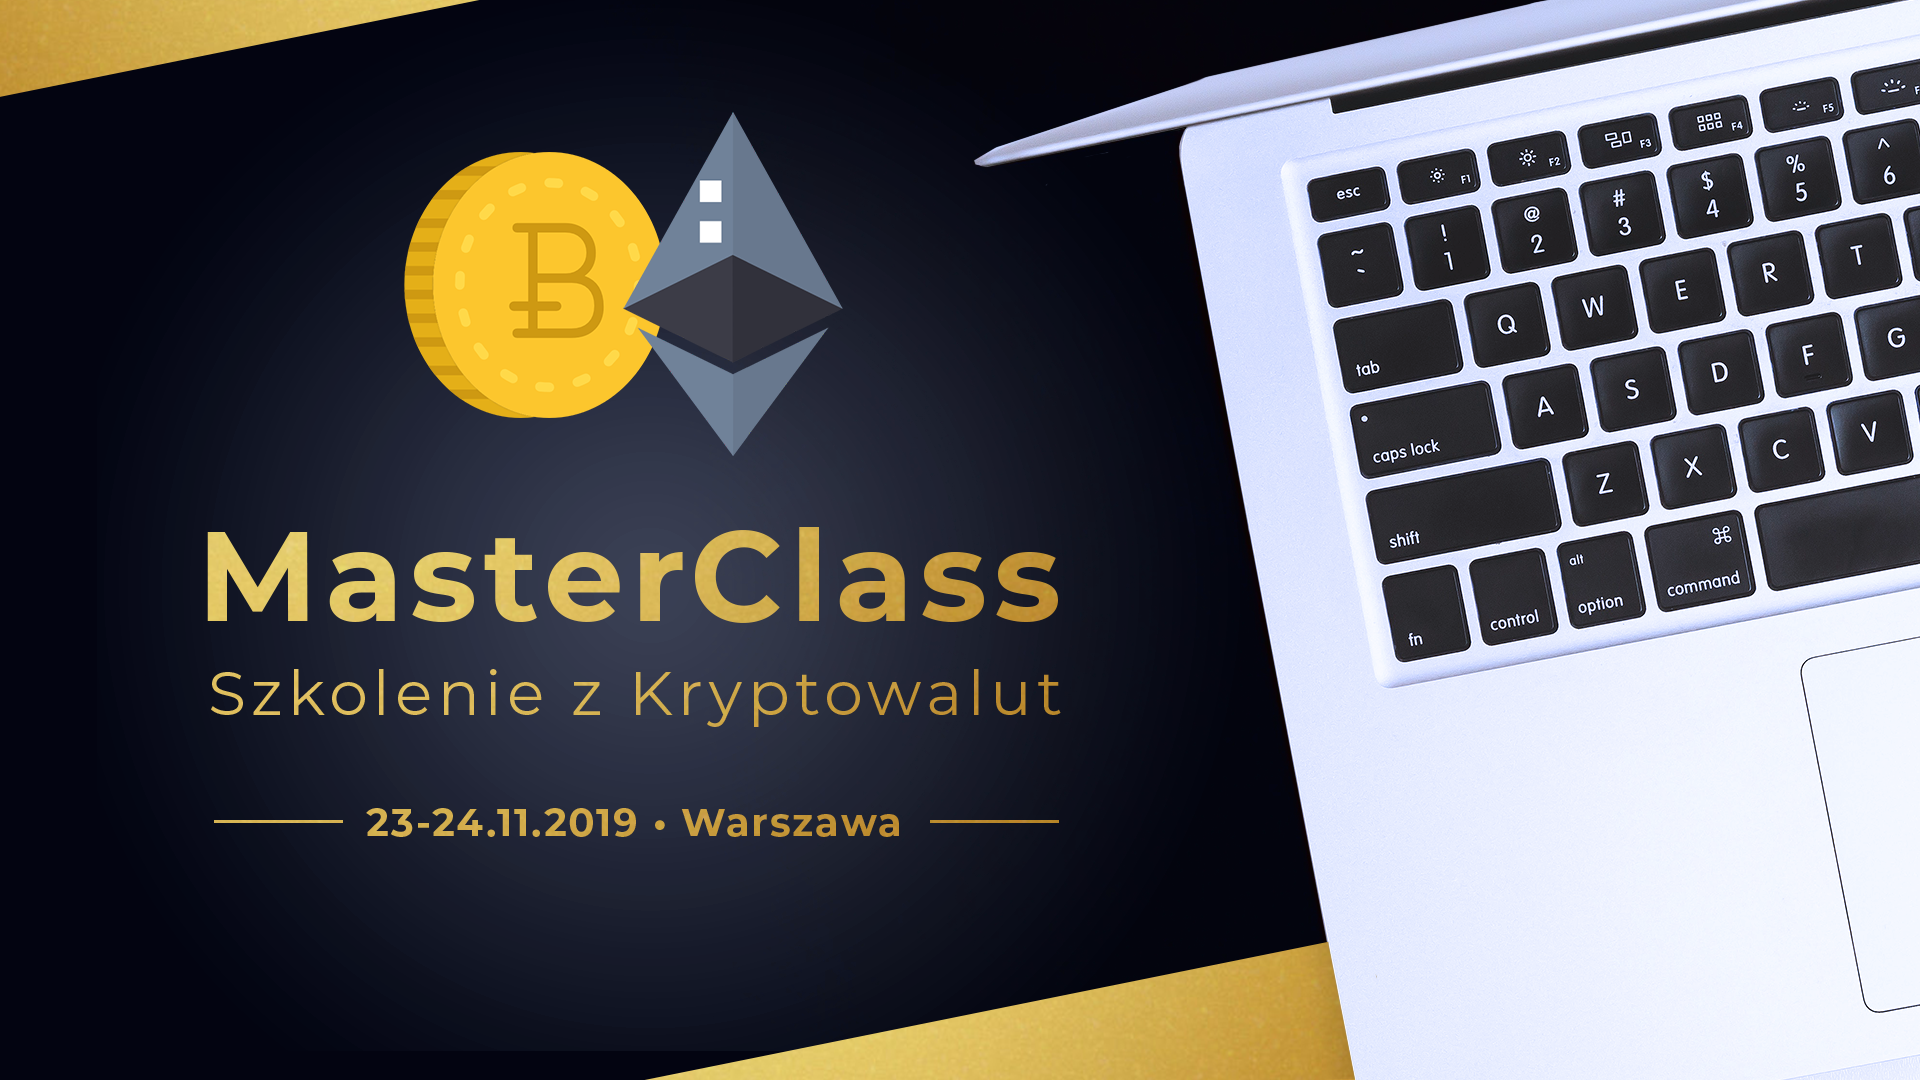
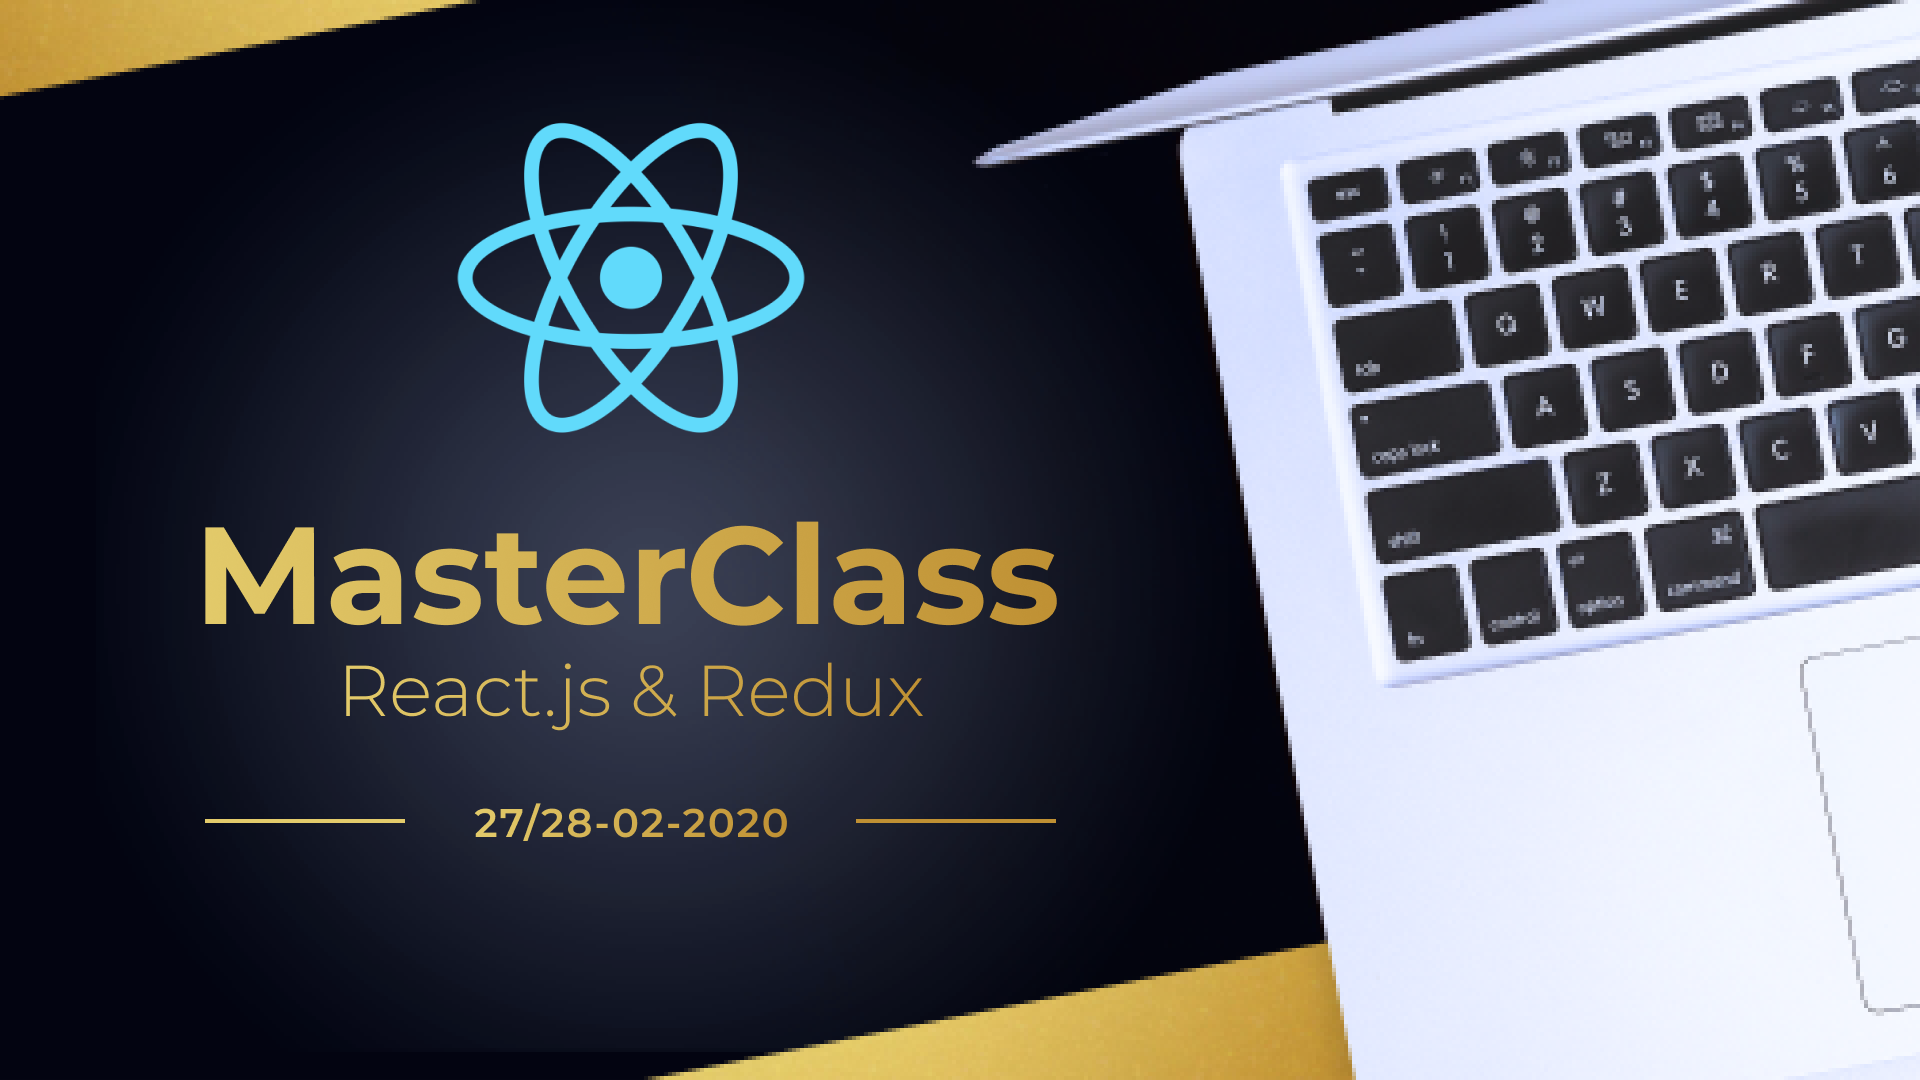
Update slides hours before event

diff --git a/index.html b/index.html
@@ -30,7 +30,7 @@
     <section class="slide">
         <iframe
             class="cover"
-            src="https://www.youtube-nocookie.com/embed/XXX?rel=0"
+            src="https://www.youtube-nocookie.com/embed/tYHACov55WU?rel=0"
             width="560" height="315" frameborder="0"
             allow="autoplay; encrypted-media" allowfullscreen
         ></iframe>
@@ -203,7 +203,7 @@
     </section>
 
     <section class="slide">
-        <h1 class="shout">5,300 👍</h1>
+        <h1 class="shout">5,393 👍</h1>
 
         <h3 class="shout" style="font-size: 50px; margin-top: 120px;">
             <a href="http://meetup.com/warsawjs">meetup.com/warsawjs</a>
@@ -221,7 +221,7 @@
     </section-->
 
     <section class="slide">
-        <img class="cover" src="images/sponsors/en-sponsors-v16.png"
+        <img class="cover" src="images/sponsors/en-sponsors-v17.png"
              alt=""/>
     </section>
 
@@ -229,6 +229,13 @@
         <h2 class="shout">Lightning talks</h2>
         <h3 class="shout" style="font-size: 50px; margin-top: 180px;">
             Free speaking
+        </h3>
+    </section>
+
+    <section class="slide">
+        <h2 class="shout">Code Review Session</h2>
+        <h3 class="shout" style="font-size: 50px; margin-top: 220px;">
+            Topics: <strong>React.js, TypeScript</strong>
         </h3>
     </section>
 
@@ -273,9 +280,6 @@
 
         <ul class="list-unstyled" style="font-size: 26px;">
             <li>
-                <strong><del>#40</del></strong> <code>01/26</code> — <mark>Seria: Trening Architekta</mark> — Bezpieczeństwo aplikacji webowych
-            </li>
-            <li>
                 <strong><del>#41</del></strong> <code>02/23</code> — <strong>JavaScript dla początkujących (1/3)</strong>
             </li>
             <li>
@@ -292,6 +296,9 @@
             </li>
             <li>
                 <strong><del>#46</del></strong> <code>07/19</code> — <mark>Seria: Trening Architekta</mark> — Programowanie funkcyjne
+            </li>
+            <li>
+                <strong><del>#47</del></strong> <code>08/23</code> — <strong>React.js</strong>
             </li>
         </ul>
 
@@ -313,13 +320,13 @@
         </div>
     </section>
 
-    <!--section class="slide">
+    <section class="slide">
         <img
             class="cover"
             src="images/masterclass/Baner_Temat.png"
             alt=""
         />
-    </section-->
+    </section>
 
     <!--section class="slide">
         <img
